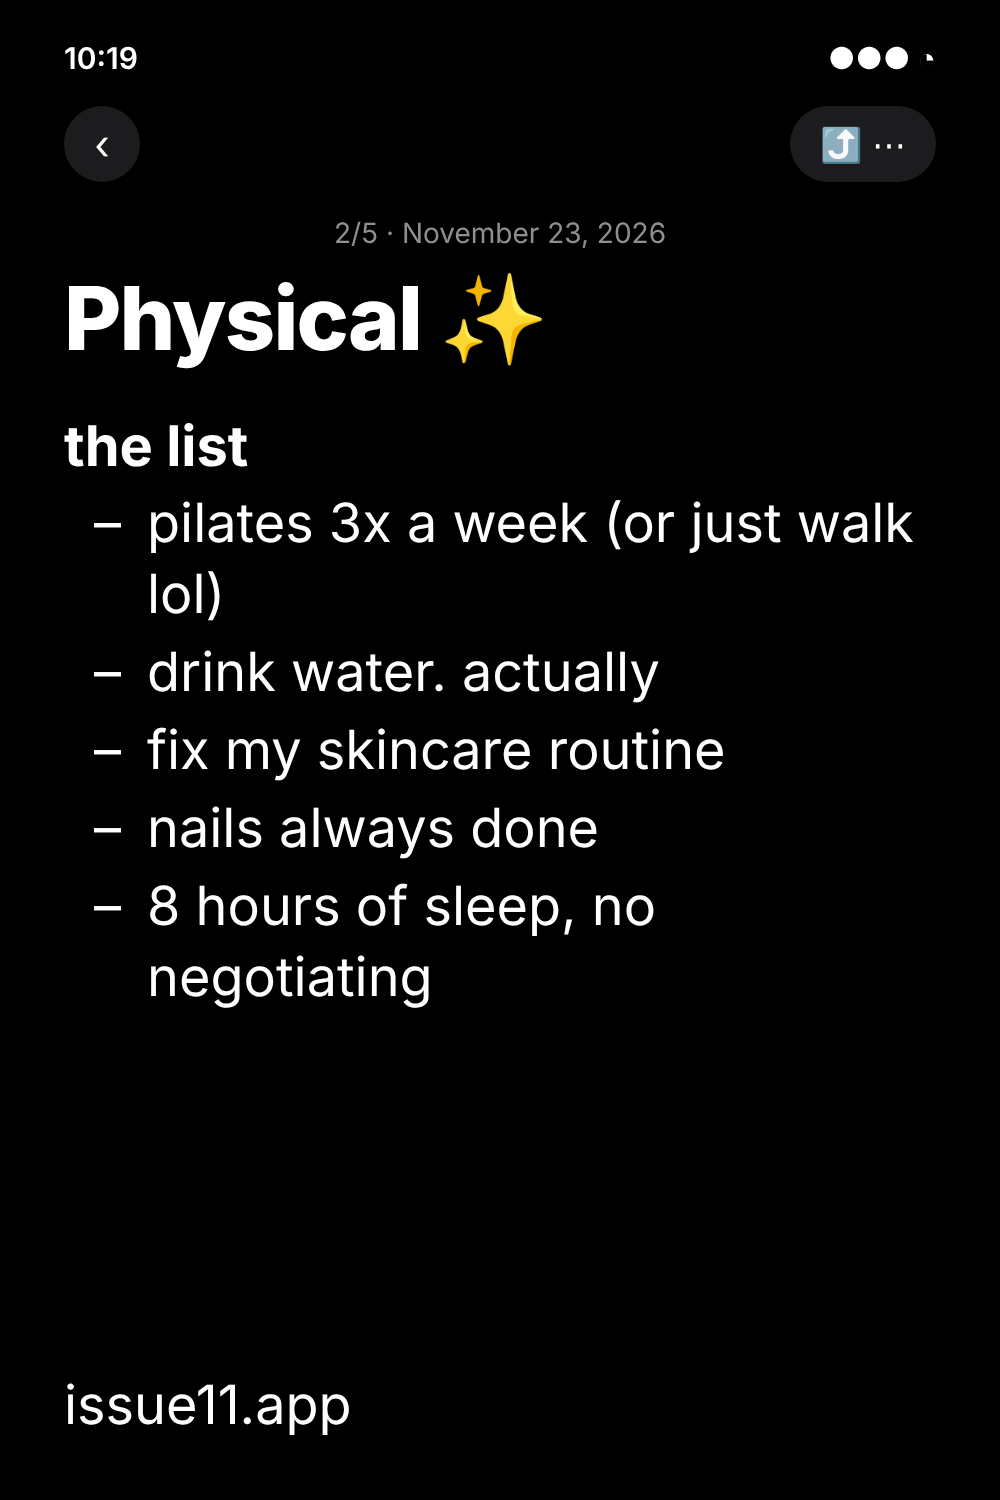
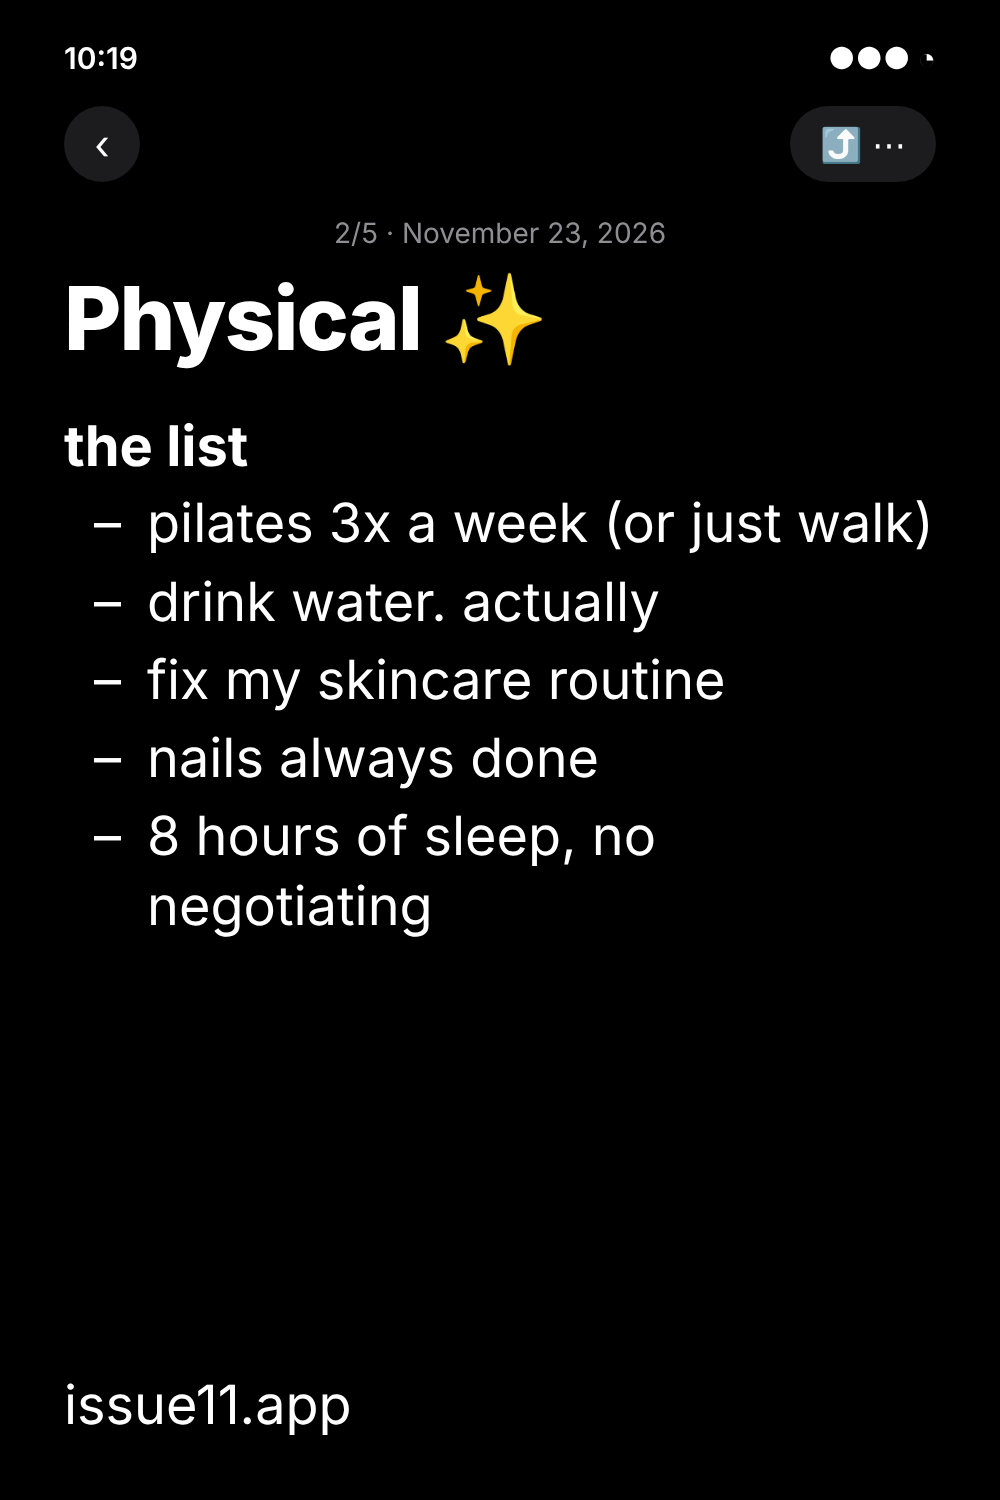
Pinterest: PRC-2 remove "lol" (Megan)
Claude-Session: https://claude.ai/code/session_01YGtmQppBCBt9nypMHzxSp1

diff --git a/drafts/pinterest/carousels/PRC-2.dc.html b/drafts/pinterest/carousels/PRC-2.dc.html
@@ -18,7 +18,7 @@
   <p style="margin:34px 0 0; text-align:center; font-size:28px; color:#8e8e93">2/5 · November 23, 2026</p>
   <h1 style="margin:22px 0 0; font-size:88px; font-weight:800; letter-spacing:-0.02em; line-height:1.05">Physical ✨</h1>
   
-  <p style="margin:48px 0 6px; font-weight:700; font-size:56px">the list</p><div style="padding-left:30px; font-size:54px; line-height:1.3"><div style="display:flex; gap:26px; margin:8px 0"><span>–</span><span>pilates 3x a week (or just walk lol)</span></div><div style="display:flex; gap:26px; margin:8px 0"><span>–</span><span>drink water. actually</span></div><div style="display:flex; gap:26px; margin:8px 0"><span>–</span><span>fix my skincare routine</span></div><div style="display:flex; gap:26px; margin:8px 0"><span>–</span><span>nails always done</span></div><div style="display:flex; gap:26px; margin:8px 0"><span>–</span><span>8 hours of sleep, no negotiating</span></div></div>
+  <p style="margin:48px 0 6px; font-weight:700; font-size:56px">the list</p><div style="padding-left:30px; font-size:54px; line-height:1.3"><div style="display:flex; gap:26px; margin:8px 0"><span>–</span><span>pilates 3x a week (or just walk)</span></div><div style="display:flex; gap:26px; margin:8px 0"><span>–</span><span>drink water. actually</span></div><div style="display:flex; gap:26px; margin:8px 0"><span>–</span><span>fix my skincare routine</span></div><div style="display:flex; gap:26px; margin:8px 0"><span>–</span><span>nails always done</span></div><div style="display:flex; gap:26px; margin:8px 0"><span>–</span><span>8 hours of sleep, no negotiating</span></div></div>
 <p style="position:absolute; left:64px; bottom:60px; margin:0; font-size:54px; line-height:1.3">issue11.app</p></div>
 </div>
 </x-dc>

diff --git a/drafts/pinterest/color-test/PRC-2.dc.html b/drafts/pinterest/color-test/PRC-2.dc.html
@@ -18,7 +18,7 @@
   <p style="margin:34px 0 0; text-align:center; font-size:28px; color:#8e8e93">2/5 · November 23, 2026</p>
   <h1 style="margin:22px 0 0; font-size:88px; font-weight:800; letter-spacing:-0.02em; line-height:1.05">Physical ✨</h1>
   
-  <p style="margin:48px 0 6px; font-weight:700; font-size:56px">the list</p><div style="padding-left:30px; font-size:54px; line-height:1.3"><div style="display:flex; gap:26px; margin:8px 0"><span>–</span><span>pilates 3x a week (or just walk lol)</span></div><div style="display:flex; gap:26px; margin:8px 0"><span>–</span><span>drink water. actually</span></div><div style="display:flex; gap:26px; margin:8px 0"><span>–</span><span>fix my skincare routine</span></div><div style="display:flex; gap:26px; margin:8px 0"><span>–</span><span>nails always done</span></div><div style="display:flex; gap:26px; margin:8px 0"><span>–</span><span>8 hours of sleep, no negotiating</span></div></div>
+  <p style="margin:48px 0 6px; font-weight:700; font-size:56px">the list</p><div style="padding-left:30px; font-size:54px; line-height:1.3"><div style="display:flex; gap:26px; margin:8px 0"><span>–</span><span>pilates 3x a week (or just walk)</span></div><div style="display:flex; gap:26px; margin:8px 0"><span>–</span><span>drink water. actually</span></div><div style="display:flex; gap:26px; margin:8px 0"><span>–</span><span>fix my skincare routine</span></div><div style="display:flex; gap:26px; margin:8px 0"><span>–</span><span>nails always done</span></div><div style="display:flex; gap:26px; margin:8px 0"><span>–</span><span>8 hours of sleep, no negotiating</span></div></div>
 <p style="position:absolute; left:64px; bottom:60px; margin:0; font-size:54px; line-height:1.3">issue11.app</p></div>
 </div>
 </x-dc>

diff --git a/drafts/pinterest/color-test/rebrand_car_gen.py b/drafts/pinterest/color-test/rebrand_car_gen.py
@@ -11,7 +11,7 @@ def note(k,i,title,secs):
     inner=inner[:-6]+f'<p style="position:absolute; left:64px; bottom:60px; margin:0; font-size:{fs}px; line-height:1.3">issue11.app</p></div>'
     P[k]=ns['doc'](f'Personal rebrand carousel · slide {i}',inner,bg)
 note('PRC-1',1,'Project: Personal Rebrand 🎀🫧',[("the plan",["physical","mentally","wardrobe","money + space"]),("when",["starting now, not january"])])
-note('PRC-2',2,'Physical ✨',[("the list",["pilates 3x a week (or just walk lol)","drink water. actually","fix my skincare routine","nails always done","8 hours of sleep, no negotiating"])])
+note('PRC-2',2,'Physical ✨',[("the list",["pilates 3x a week (or just walk)","drink water. actually","fix my skincare routine","nails always done","8 hours of sleep, no negotiating"])])
 note('PRC-3',3,'Mentally 🧠',[("the list",["no more people-pleasing","journal before i touch my phone","unfollow anyone who makes me feel behind","one hard thing a week"])])
 note('PRC-4',4,'Wardrobe 👗',[("the list",["get rid of what i don't wear","find my signature scent","invest in cute pajama sets","a uniform i actually love"])])
 note('PRC-5',5,'Money + space 💸',[("money",["open a HYSA account just for future me","raise my rates (or ask for a raise)"]),("space",["clean out my camera roll","make my bed every day"])])
